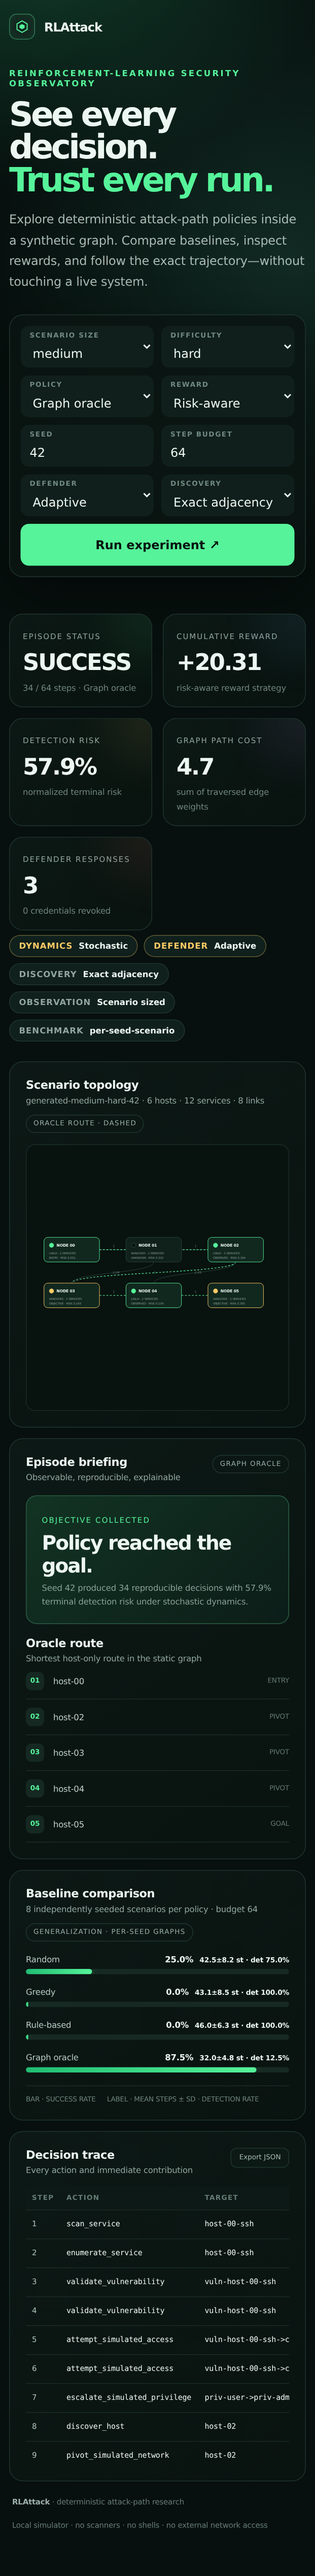
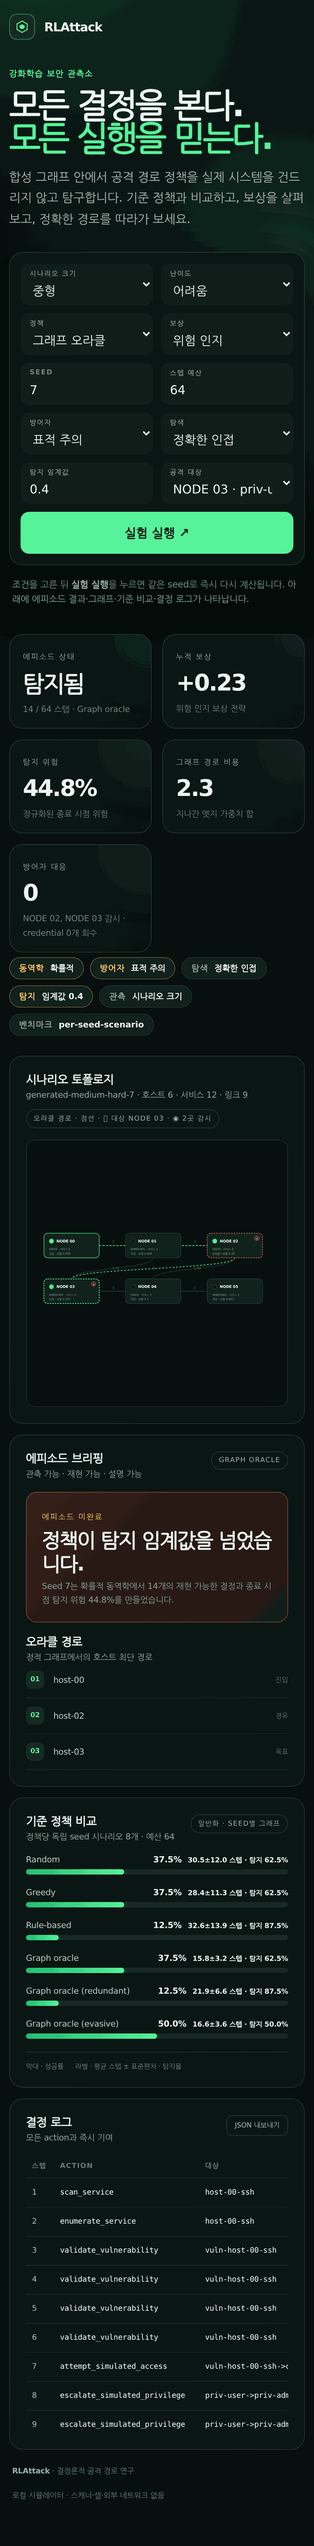
feat: localize the dashboard to Korean and refresh the screenshots
The dashboard UI is now Korean throughout - hero, controls, stat tiles,
condition chips, graph labels (진입/대상/관측됨), episode briefing, oracle route,
baseline panel, and decision-trace headers - with a one-line usage hint under
the controls ("조건을 고른 뒤 실험 실행을 누르면...") for first-time users. Option
values, element ids, and the JSON contract are unchanged, so the API and the
offline report keep working; only visible text moved. Sets lang="ko" and drops
the uppercase transform that would have garbled the Korean eyebrow.

Replaces the three v0.2 English screenshots in docs/assets with real v1.0 Korean
captures (headless chromium), showing the targeted defender, the attack-target
selector, and the marked graph. Captured from the JS-rendered page, then
downscaled and quantised to ~195KB each (smaller than the originals).

Claude-Session: https://claude.ai/code/session_0183L862dUUSysvfF7Kp8Bir

diff --git a/src/rlattack/report.py b/src/rlattack/report.py
@@ -48,12 +48,12 @@ def write_transfer_report(data: dict[str, Any], output_path: Path) -> Path:
 
 
 _HTML_START = """<!doctype html>
-<html lang="en">
+<html lang="ko">
 <head>
   <meta charset="utf-8">
   <meta name="viewport" content="width=device-width,initial-scale=1">
   <meta name="color-scheme" content="dark">
-  <title>RLAttack · Simulation Observatory</title>
+  <title>RLAttack · 시뮬레이션 관측소</title>
   <style>
     :root {
       --bg:#07100e; --panel:#0c1815; --panel-2:#10201c; --line:#20352f;
@@ -89,7 +89,7 @@ _HTML_START = """<!doctype html>
     }
     .safe i { width:7px; height:7px; background:var(--green); border-radius:50%; box-shadow:0 0 12px var(--green) }
     .hero { display:grid; grid-template-columns:1.4fr .6fr; align-items:end; gap:30px; margin-bottom:30px }
-    .eyebrow { color:var(--green); font-size:11px; font-weight:800; letter-spacing:.2em; text-transform:uppercase }
+    .eyebrow { color:var(--green); font-size:11px; font-weight:800; letter-spacing:.08em }
     h1 { max-width:850px; margin:13px 0 16px; font-size:clamp(42px,5vw,76px); line-height:.98; letter-spacing:-.07em; font-weight:720 }
     h1 em { color:var(--green); font-style:normal }
     .lede { max-width:720px; color:#a9bbb5; font-size:16px; line-height:1.7 }
@@ -126,6 +126,8 @@ _HTML_START = """<!doctype html>
     .run:hover { transform:translateY(-1px); background:#79ffb4 }
     .run:disabled { cursor:wait; opacity:.6 }
     .notice { min-height:22px; color:var(--muted); font-size:11px; padding:0 4px }
+    .howto { color:#8fb4a8; font-size:12px; line-height:1.6; padding:2px 4px 0; margin-bottom:2px }
+    .howto b { color:#cfe7dd }
     .stats { display:grid; grid-template-columns:repeat(4,1fr); gap:14px; margin:12px 0 14px }
     .stat,.panel { border:1px solid var(--line); background:linear-gradient(145deg,#0d1916ee,#091310ee); border-radius:18px }
     .stat { padding:20px 22px; min-height:120px; position:relative; overflow:hidden }
@@ -217,45 +219,46 @@ _HTML_START = """<!doctype html>
         <span class="mark" aria-hidden="true"><svg viewBox="0 0 24 24" fill="none"><path d="M4 7.5 12 3l8 4.5v9L12 21l-8-4.5v-9Z" stroke="#56f39a" stroke-width="1.6"/><path d="m8 10 4-2 4 2v4l-4 2-4-2v-4Z" fill="#56f39a"/></svg></span>
         <span>RLAttack</span>
       </div>
-      <div class="safe"><i></i> SIMULATION-ONLY · NO EXTERNAL TARGETS</div>
+      <div class="safe"><i></i> 시뮬레이션 전용 · 외부 대상 없음</div>
     </nav>
 
     <section class="hero">
       <div>
-        <div class="eyebrow">Reinforcement-learning security observatory</div>
-        <h1>See every decision.<br><em>Trust every run.</em></h1>
-        <div class="lede">Explore deterministic attack-path policies inside a synthetic graph.
-          Compare baselines, inspect rewards, and follow the exact trajectory—without touching a live system.</div>
+        <div class="eyebrow">강화학습 보안 관측소</div>
+        <h1>모든 결정을 본다.<br><em>모든 실행을 믿는다.</em></h1>
+        <div class="lede">합성 그래프 안에서 공격 경로 정책을 실제 시스템을 건드리지 않고 탐구합니다.
+          기준 정책과 비교하고, 보상을 살펴보고, 정확한 경로를 따라가 보세요.</div>
       </div>
       <div class="hero-meta">
-        <div><span>Runtime</span><strong>Gymnasium MDP</strong></div>
-        <div><span>Execution</span><strong>In-process only</strong></div>
-        <div><span>Graph model</span><strong>Pydantic + NetworkX</strong></div>
-        <div><span>Reproducibility</span><strong>Seed locked</strong></div>
+        <div><span>런타임</span><strong>Gymnasium MDP</strong></div>
+        <div><span>실행 범위</span><strong>프로세스 내부만</strong></div>
+        <div><span>그래프 모델</span><strong>Pydantic + NetworkX</strong></div>
+        <div><span>재현성</span><strong>Seed 고정</strong></div>
       </div>
     </section>
 
     <form class="toolbar" id="controls">
-      <div class="field"><label for="size">Scenario size</label><select id="size"><option>small</option><option>medium</option><option>large</option></select></div>
-      <div class="field"><label for="difficulty">Difficulty</label><select id="difficulty"><option>easy</option><option>medium</option><option>hard</option></select></div>
-      <div class="field"><label for="agent">Policy</label><select id="agent"><option value="greedy">Greedy</option><option value="rule-based">Rule-based</option><option value="shortest-path">Graph oracle</option><option value="random">Random</option></select></div>
-      <div class="field"><label for="reward">Reward</label><select id="reward"><option value="shaped">Shaped</option><option value="risk-aware">Risk-aware</option><option value="cost-aware">Cost-aware</option><option value="sparse">Sparse</option></select></div>
+      <div class="field"><label for="size">시나리오 크기</label><select id="size"><option value="small">소형</option><option value="medium">중형</option><option value="large">대형</option></select></div>
+      <div class="field"><label for="difficulty">난이도</label><select id="difficulty"><option value="easy">쉬움</option><option value="medium">보통</option><option value="hard">어려움</option></select></div>
+      <div class="field"><label for="agent">정책</label><select id="agent"><option value="greedy">Greedy(탐욕)</option><option value="rule-based">규칙 기반</option><option value="shortest-path">그래프 오라클</option><option value="random">무작위</option></select></div>
+      <div class="field"><label for="reward">보상</label><select id="reward"><option value="shaped">단계 보상</option><option value="risk-aware">위험 인지</option><option value="cost-aware">비용 인지</option><option value="sparse">희소</option></select></div>
       <div class="field"><label for="seed">Seed</label><input id="seed" type="number" min="0" step="1"></div>
-      <div class="field"><label for="budget">Step budget</label><input id="budget" type="number" min="1" max="500"></div>
-      <div class="field"><label for="defender">Defender</label><select id="defender"><option value="passive">Passive (control)</option><option value="adaptive">Adaptive (uniform)</option><option value="targeted">Targeted attention</option></select></div>
-      <div class="field"><label for="discovery">Discovery</label><select id="discovery"><option value="exact">Exact adjacency</option><option value="noisy">Noisy scan</option></select></div>
-      <div class="field"><label for="threshold">Detection threshold</label><input id="threshold" type="number" min="0.05" max="1" step="0.05" title="Accumulated risk that ends an episode. At 0.9 detection rarely fires, so risk is not the binding constraint."></div>
-      <div class="field"><label for="target">Attack target</label><select id="target" title="Which objective in the synthetic graph the episode must reach. Simulation only — no external address."><option value="">All objectives</option></select></div>
-      <button class="run" id="run" type="submit">Run experiment ↗</button>
+      <div class="field"><label for="budget">스텝 예산</label><input id="budget" type="number" min="1" max="500"></div>
+      <div class="field"><label for="defender">방어자</label><select id="defender"><option value="passive">비활성(대조군)</option><option value="adaptive">적응형(균일 감시)</option><option value="targeted">표적 주의</option></select></div>
+      <div class="field"><label for="discovery">탐색</label><select id="discovery"><option value="exact">정확한 인접</option><option value="noisy">노이즈 스캔</option></select></div>
+      <div class="field"><label for="threshold">탐지 임계값</label><input id="threshold" type="number" min="0.05" max="1" step="0.05" title="에피소드를 끝내는 누적 위험. 0.9에서는 탐지가 거의 발동하지 않아 위험이 구속조건이 되지 않습니다."></div>
+      <div class="field"><label for="target">공격 대상</label><select id="target" title="에피소드가 도달해야 할 그래프 안의 목표. 시뮬레이션 전용 — 외부 주소는 없습니다."><option value="">전체 목표</option></select></div>
+      <button class="run" id="run" type="submit">실험 실행 ↗</button>
     </form>
+    <div class="howto">조건을 고른 뒤 <b>실험 실행</b>을 누르면 같은 seed로 즉시 다시 계산됩니다. 아래에 에피소드 결과·그래프·기준 비교·결정 로그가 나타납니다.</div>
     <div class="notice" id="notice"></div>
 
     <section class="stats">
-      <article class="stat"><span class="k">Episode status</span><strong class="v" id="stat-status">—</strong><small id="stat-status-note"></small></article>
-      <article class="stat" style="--accent:#71a7ff"><span class="k">Cumulative reward</span><strong class="v" id="stat-reward">—</strong><small id="stat-reward-note"></small></article>
-      <article class="stat" style="--accent:#ffcb66"><span class="k">Detection risk</span><strong class="v" id="stat-risk">—</strong><small>normalized terminal risk</small></article>
-      <article class="stat" style="--accent:#c78bff"><span class="k">Graph path cost</span><strong class="v" id="stat-cost">—</strong><small>sum of traversed edge weights</small></article>
-      <article class="stat" style="--accent:#ff6e6e"><span class="k">Defender responses</span><strong class="v" id="stat-defender">—</strong><small id="stat-defender-note"></small></article>
+      <article class="stat"><span class="k">에피소드 상태</span><strong class="v" id="stat-status">—</strong><small id="stat-status-note"></small></article>
+      <article class="stat" style="--accent:#71a7ff"><span class="k">누적 보상</span><strong class="v" id="stat-reward">—</strong><small id="stat-reward-note"></small></article>
+      <article class="stat" style="--accent:#ffcb66"><span class="k">탐지 위험</span><strong class="v" id="stat-risk">—</strong><small>정규화된 종료 시점 위험</small></article>
+      <article class="stat" style="--accent:#c78bff"><span class="k">그래프 경로 비용</span><strong class="v" id="stat-cost">—</strong><small>지나간 엣지 가중치 합</small></article>
+      <article class="stat" style="--accent:#ff6e6e"><span class="k">방어자 대응</span><strong class="v" id="stat-defender">—</strong><small id="stat-defender-note"></small></article>
     </section>
 
     <section class="conditions" id="conditions"></section>
@@ -263,36 +266,36 @@ _HTML_START = """<!doctype html>
     <section class="main-grid">
       <article class="panel">
         <div class="panel-head">
-          <div><h2>Scenario topology</h2><div class="sub" id="scenario-sub"></div></div>
-          <span class="tag" id="graph-tag">Oracle route · dashed</span>
+          <div><h2>시나리오 토폴로지</h2><div class="sub" id="scenario-sub"></div></div>
+          <span class="tag" id="graph-tag">오라클 경로 · 점선</span>
         </div>
-        <svg id="graph" role="img" aria-label="Simulated scenario graph"></svg>
+        <svg id="graph" role="img" aria-label="시뮬레이션 시나리오 그래프"></svg>
       </article>
       <article class="panel episode">
-        <div class="panel-head"><div><h2>Episode briefing</h2><div class="sub">Observable, reproducible, explainable</div></div><span class="tag" id="agent-tag"></span></div>
+        <div class="panel-head"><div><h2>에피소드 브리핑</h2><div class="sub">관측 가능 · 재현 가능 · 설명 가능</div></div><span class="tag" id="agent-tag"></span></div>
         <div class="outcome" id="outcome"><span class="status" id="outcome-status"></span><strong id="outcome-title"></strong><p id="outcome-copy"></p></div>
-        <h2>Oracle route</h2>
-        <div class="sub">Shortest host-only route in the static graph</div>
+        <h2>오라클 경로</h2>
+        <div class="sub">정적 그래프에서의 호스트 최단 경로</div>
         <ol class="route" id="route"></ol>
       </article>
     </section>
 
     <section class="bottom-grid">
       <article class="panel">
-        <div class="panel-head"><div><h2>Baseline comparison</h2><div class="sub" id="benchmark-sub"></div></div><span class="tag">Generalization · per-seed graphs</span></div>
+        <div class="panel-head"><div><h2>기준 정책 비교</h2><div class="sub" id="benchmark-sub"></div></div><span class="tag">일반화 · seed별 그래프</span></div>
         <div id="benchmarks"></div>
-        <div class="legend"><span>BAR · SUCCESS RATE</span><span>LABEL · MEAN STEPS ± SD · DETECTION RATE</span></div>
+        <div class="legend"><span>막대 · 성공률</span><span>라벨 · 평균 스텝 ± 표준편차 · 탐지율</span></div>
       </article>
       <article class="panel">
         <div class="panel-head">
-          <div><h2>Decision trace</h2><div class="sub">Every action and immediate contribution</div></div>
-          <div class="panel-actions"><button class="ghost" id="export" type="button">Export JSON</button></div>
+          <div><h2>결정 로그</h2><div class="sub">모든 action과 즉시 기여</div></div>
+          <div class="panel-actions"><button class="ghost" id="export" type="button">JSON 내보내기</button></div>
         </div>
-        <div class="table-wrap"><table><thead><tr><th>Step</th><th>Action</th><th>Target</th><th>State</th><th>Risk</th><th>Reward</th><th>Outcome</th></tr></thead><tbody id="trace"></tbody></table></div>
+        <div class="table-wrap"><table><thead><tr><th>스텝</th><th>Action</th><th>대상</th><th>상태</th><th>위험</th><th>보상</th><th>결과</th></tr></thead><tbody id="trace"></tbody></table></div>
       </article>
     </section>
 
-    <footer><span><strong>RLAttack</strong> · deterministic attack-path research</span><span>Local simulator · no scanners · no shells · no external network access</span></footer>
+    <footer><span><strong>RLAttack</strong> · 결정론적 공격 경로 연구</span><span>로컬 시뮬레이터 · 스캐너·셸·외부 네트워크 없음</span></footer>
   </main>
 """
 
@@ -301,6 +304,7 @@ _HTML_END = """
   <script>
     const $ = (id) => document.getElementById(id);
     let model = window.__RLATTACK_DATA__;
+    const REWARD_KO={shaped:'단계',"risk-aware":'위험 인지',"cost-aware":'비용 인지',sparse:'희소'};
     const esc = (value) => String(value).replace(/[&<>"']/g, c => ({'&':'&amp;','<':'&lt;','>':'&gt;','"':'&quot;',"'":'&#39;'}[c]));
     const pct = (value) => `${(Number(value) * 100).toFixed(1)}%`;
     const num = (value, digits=2) => Number(value).toFixed(digits);
@@ -344,7 +348,7 @@ _HTML_END = """
       }).join('');
       const nodeSvg=nodes.map(node => {
         const p=positions[node.id], classes=`node ${node.visited?'visited':''} ${node.objective?'objective':''} ${node.monitored?'monitored':''} ${node.target?'target':''}`;
-        const role=node.entry?'ENTRY':node.target?'TARGET':node.objective?'OBJECTIVE':node.visited?'OBSERVED':'UNKNOWN';
+        const role=node.entry?'진입':node.target?'대상':node.objective?'목표':node.visited?'관측됨':'미상';
         // A targeted defender is only legible if you can see where it is looking, so
         // the watched hosts are marked on the graph rather than only counted.
         const watch=node.monitored
@@ -354,8 +358,8 @@ _HTML_END = """
           <rect class="node-card" width="176" height="78" rx="12"/>
           <circle class="node-icon" cx="24" cy="25" r="7"/>
           <text class="node-title" x="40" y="29">${esc(node.label)}</text>
-          <text class="node-meta" x="16" y="54">${esc(node.os.toUpperCase())} · ${esc(node.services)} SERVICES</text>
-          <text class="node-meta" x="16" y="68">${role} · RISK ${esc(node.detection)}</text>
+          <text class="node-meta" x="16" y="54">${esc(node.os.toUpperCase())} · 서비스 ${esc(node.services)}</text>
+          <text class="node-meta" x="16" y="68">${role} · 위험 ${esc(node.detection)}</text>
           ${watch}
         </g>`;
       }).join('');
@@ -363,52 +367,52 @@ _HTML_END = """
       svg.innerHTML=edgeSvg+nodeSvg;
       const watched=nodes.filter(n=>n.monitored).length;
       const targetNode=nodes.find(n=>n.target);
-      let tag='Oracle route · dashed';
-      if(targetNode) tag+=`  ·  ⌖ target ${targetNode.label}`;
-      if(watched) tag+=`  ·  ◉ ${watched} watched`;
+      let tag='오라클 경로 · 점선';
+      if(targetNode) tag+=`  ·  ⌖ 대상 ${targetNode.label}`;
+      if(watched) tag+=`  ·  ◉ ${watched}곳 감시`;
       $('graph-tag').textContent=tag;
     }
 
     function render(data) {
       model=data; syncControls(data);
       const e=data.episode, c=data.config, s=data.scenario;
-      $('stat-status').textContent=e.success?'SUCCESS':e.detected?'DETECTED':e.truncated?'BUDGET':'STOPPED';
-      $('stat-status-note').textContent=`${e.steps} / ${c.step_budget} steps · ${e.agent_label}`;
+      $('stat-status').textContent=e.success?'성공':e.detected?'탐지됨':e.truncated?'예산 소진':'중단';
+      $('stat-status-note').textContent=`${e.steps} / ${c.step_budget} 스텝 · ${e.agent_label}`;
       $('stat-reward').textContent=(e.cumulative_reward>=0?'+':'')+num(e.cumulative_reward);
-      $('stat-reward-note').textContent=`${c.reward_strategy} reward strategy`;
+      $('stat-reward-note').textContent=`${REWARD_KO[c.reward_strategy]||c.reward_strategy} 보상 전략`;
       $('stat-risk').textContent=pct(e.detection_risk);
       $('stat-cost').textContent=num(e.path_cost,1);
       $('stat-defender').textContent=c.defender==='passive'?'—':String(e.defender_actions);
       const watched=data.scenario.nodes.filter(n=>n.monitored).map(n=>n.label);
       $('stat-defender-note').textContent=c.defender==='passive'
-        ? 'passive control condition'
+        ? '비활성 대조군'
         : watched.length
-          ? `watching ${watched.join(', ')} · ${e.revoked_credentials} credential${e.revoked_credentials===1?'':'s'} revoked`
-          : `${e.revoked_credentials} credential${e.revoked_credentials===1?'':'s'} revoked`;
+          ? `${watched.join(', ')} 감시 · credential ${e.revoked_credentials}개 회수`
+          : `credential ${e.revoked_credentials}개 회수`;
       const conditions=[
-        ['Dynamics', c.stochastic?'Stochastic':'Deterministic', c.stochastic],
-        ['Defender', {passive:'Passive',adaptive:'Adaptive (uniform)',targeted:'Targeted attention'}[c.defender], c.defender!=='passive'],
-        ['Discovery', c.discovery==='noisy'?'Noisy scan':'Exact adjacency', c.discovery==='noisy'],
-        ['Detection', `threshold ${c.detection_threshold}`, c.detection_threshold<0.9],
-        ['Observation', c.observation==='curriculum'?'Fixed capacity':'Scenario sized', c.observation==='curriculum'],
-        ['Benchmark', data.benchmark_protocol.mode, false],
+        ['동역학', c.stochastic?'확률적':'결정론적', c.stochastic],
+        ['방어자', {passive:'비활성',adaptive:'적응형(균일)',targeted:'표적 주의'}[c.defender], c.defender!=='passive'],
+        ['탐색', c.discovery==='noisy'?'노이즈 스캔':'정확한 인접', c.discovery==='noisy'],
+        ['탐지', `임계값 ${c.detection_threshold}`, c.detection_threshold<0.9],
+        ['관측', c.observation==='curriculum'?'고정 용량':'시나리오 크기', c.observation==='curriculum'],
+        ['벤치마크', data.benchmark_protocol.mode, false],
       ];
       $('conditions').innerHTML=conditions.map(([key,value,treatment]) =>
         `<span class="cond ${treatment?'treatment':''}">${esc(key)} <b>${esc(value)}</b></span>`
       ).join('');
-      $('scenario-sub').textContent=`${s.id} · ${s.hosts} hosts · ${s.services} services · ${s.edges} links`;
+      $('scenario-sub').textContent=`${s.id} · 호스트 ${s.hosts} · 서비스 ${s.services} · 링크 ${s.edges}`;
       $('agent-tag').textContent=e.agent_label;
       const outcome=$('outcome');
       outcome.classList.toggle('fail',!e.success);
-      $('outcome-status').textContent=e.success?'Objective collected':'Episode incomplete';
-      $('outcome-title').textContent=e.success?'Policy reached the goal.':e.detected?'Policy tripped the detection threshold.':e.truncated?'Step budget exhausted.':'Policy stopped early.';
-      $('outcome-copy').textContent=`Seed ${c.seed} produced ${e.steps} reproducible decisions with ${pct(e.detection_risk)} terminal detection risk under ${c.stochastic?'stochastic':'deterministic'} dynamics.`;
-      $('benchmark-sub').textContent=`${c.benchmark_episodes} independently seeded scenarios per policy · budget ${c.step_budget}`;
+      $('outcome-status').textContent=e.success?'목표 수집됨':'에피소드 미완료';
+      $('outcome-title').textContent=e.success?'정책이 목표에 도달했습니다.':e.detected?'정책이 탐지 임계값을 넘었습니다.':e.truncated?'스텝 예산을 소진했습니다.':'정책이 일찍 멈췄습니다.';
+      $('outcome-copy').textContent=`Seed ${c.seed}는 ${c.stochastic?'확률적':'결정론적'} 동역학에서 ${e.steps}개의 재현 가능한 결정과 종료 시점 탐지 위험 ${pct(e.detection_risk)}를 만들었습니다.`;
+      $('benchmark-sub').textContent=`정책당 독립 seed 시나리오 ${c.benchmark_episodes}개 · 예산 ${c.step_budget}`;
       $('route').innerHTML=s.oracle_route.map((node,index) =>
-        `<li><b>${String(index+1).padStart(2,'0')}</b><span>${esc(node)}</span><small>${index===0?'ENTRY':index===s.oracle_route.length-1?'GOAL':'PIVOT'}</small></li>`
+        `<li><b>${String(index+1).padStart(2,'0')}</b><span>${esc(node)}</span><small>${index===0?'진입':index===s.oracle_route.length-1?'목표':'경유'}</small></li>`
       ).join('');
       $('benchmarks').innerHTML=data.benchmarks.map(metric =>
-        `<div class="bench-row"><span>${esc(metric.label)}</span><div class="bar"><i style="width:${Math.max(1,metric.success_rate*100)}%"></i></div><strong>${pct(metric.success_rate)}<br><small>${num(metric.mean_steps,1)}±${num(metric.std_steps,1)} st · det ${pct(metric.detection_rate)}<span class="wide-only"> · R ${num(metric.mean_reward,1)} [${num(metric.reward_ci_low,1)}, ${num(metric.reward_ci_high,1)}]</span></small></strong></div>`
+        `<div class="bench-row"><span>${esc(metric.label)}</span><div class="bar"><i style="width:${Math.max(1,metric.success_rate*100)}%"></i></div><strong>${pct(metric.success_rate)}<br><small>${num(metric.mean_steps,1)}±${num(metric.std_steps,1)} 스텝 · 탐지 ${pct(metric.detection_rate)}<span class="wide-only"> · R ${num(metric.mean_reward,1)} [${num(metric.reward_ci_low,1)}, ${num(metric.reward_ci_high,1)}]</span></small></strong></div>`
       ).join('');
       $('trace').innerHTML=e.trace.map(row =>
         `<tr><td>${row.step}</td><td class="action">${esc(row.action)}</td><td class="action">${esc(row.target_id??'—')}</td><td>${row.state.discovered_hosts}H · ${row.state.known_services}S · ${row.state.acquired_privileges}P</td><td>${pct(row.detection_risk)}</td><td>${row.reward>=0?'+':''}${num(row.reward)}</td><td><span class="pill ${row.valid&&row.outcome!=='failed'?'':'invalid'}">${esc(row.outcome)}</span></td></tr>`
@@ -419,10 +423,10 @@ _HTML_END = """
     $('controls').addEventListener('submit', async (event) => {
       event.preventDefault();
       if(!window.__RLATTACK_API__) {
-        $('notice').textContent='Offline report: launch `rlattack dashboard` to run new experiments here.';
+        $('notice').textContent='오프라인 리포트입니다. 새 실험을 돌리려면 `rlattack dashboard`로 실행하세요.';
         return;
       }
-      const button=$('run'); button.disabled=true; button.textContent='Running…';
+      const button=$('run'); button.disabled=true; button.textContent='실행 중…';
       const query=new URLSearchParams({
         size:$('size').value,difficulty:$('difficulty').value,agent:$('agent').value,
         reward_strategy:$('reward').value,seed:$('seed').value,step_budget:$('budget').value,
@@ -432,13 +436,13 @@ _HTML_END = """
       });
       try {
         const response=await fetch(`/api/experiment?${query}`);
-        if(!response.ok) throw new Error(`Experiment failed (${response.status})`);
+        if(!response.ok) throw new Error(`실험 실패 (${response.status})`);
         render(await response.json());
-        $('notice').textContent='Experiment completed locally. The same inputs will reproduce this trajectory.';
+        $('notice').textContent='로컬에서 실험을 완료했습니다. 같은 입력은 이 경로를 그대로 재현합니다.';
       } catch(error) {
         $('notice').textContent=error.message;
       } finally {
-        button.disabled=false; button.textContent='Run experiment ↗';
+        button.disabled=false; button.textContent='실험 실행 ↗';
       }
     });
 

diff --git a/tests/unit/test_dashboard.py b/tests/unit/test_dashboard.py
@@ -11,7 +11,7 @@ def test_dashboard_routes_render_and_run_experiments() -> None:
 
     home = client.get("/")
     assert home.status_code == 200
-    assert "Simulation Observatory" in home.text
+    assert "시뮬레이션 관측소" in home.text
     assert "window.__RLATTACK_API__=true" in home.text
 
     health = client.get("/health")
@@ -151,5 +151,5 @@ def test_dashboard_controls_include_the_attack_target_selector() -> None:
     home = TestClient(create_app()).get("/").text
 
     assert 'id="target"' in home
-    assert "Attack target" in home
+    assert "공격 대상" in home
     assert "target:$('target').value" in home

diff --git a/tests/unit/test_report.py b/tests/unit/test_report.py
@@ -14,7 +14,7 @@ def test_dashboard_html_embeds_safe_offline_data() -> None:
     assert "<!doctype html>" in html
     assert "window.__RLATTACK_API__=false" in html
     assert "\\u003c/script>" in html
-    assert "Run experiment" in html
+    assert "실험 실행" in html
 
 
 def test_dashboard_html_can_enable_api_and_write_report(tmp_path: Path) -> None:

diff --git a/README.md b/README.md
@@ -24,7 +24,7 @@
 
 ---
 
-<img src="docs/assets/dashboard-overview.png" alt="RLAttack Simulation Observatory overview">
+<img src="docs/assets/dashboard-overview.png" alt="RLAttack 시뮬레이션 관측소 개요">
 
 > 위 화면의 topology, reward, risk, benchmark, decision trace는 장식용 샘플이 아닙니다.
 > `rlattack demo --agent shortest-path --defender adaptive --seed 42` 실행 화면입니다.
@@ -116,7 +116,7 @@ objective 하나로 좁혀지고 대상 host가 graph에 ⌖로 강조됩니다.
 <br>
 <picture>
   <source media="(max-width: 700px)" srcset="docs/assets/dashboard-mobile.png">
-  <img src="docs/assets/dashboard.png" alt="RLAttack 전체 dashboard와 mobile layout">
+  <img src="docs/assets/dashboard.png" alt="RLAttack v1.0 한국어 대시보드 (데스크톱·모바일)">
 </picture>
 </details>
 
